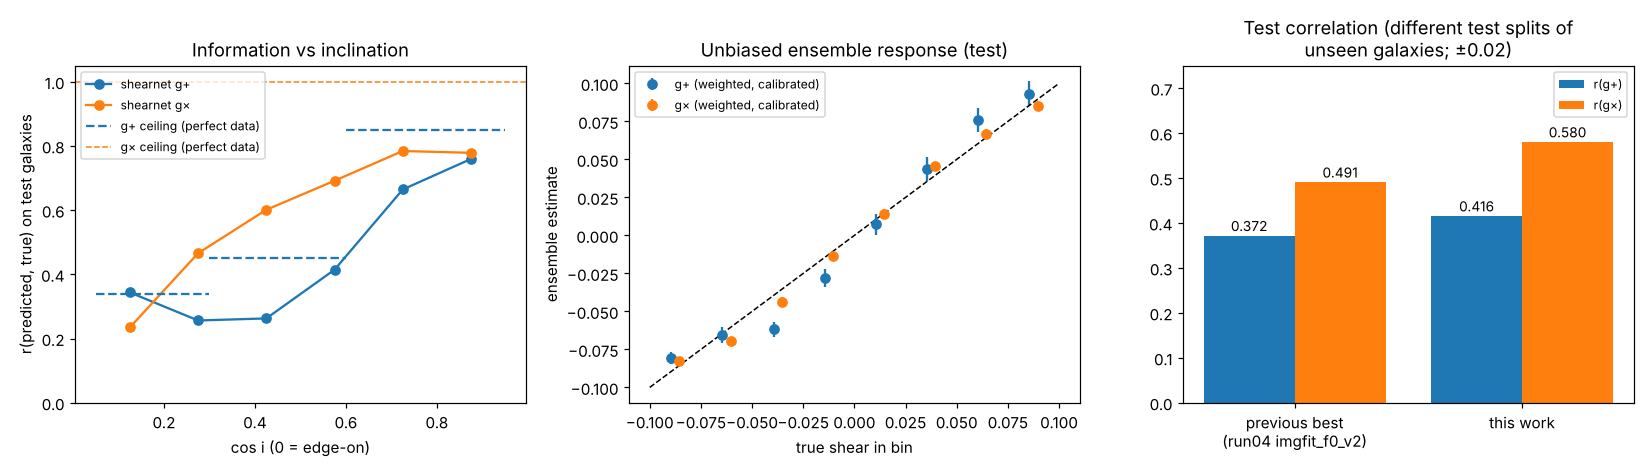
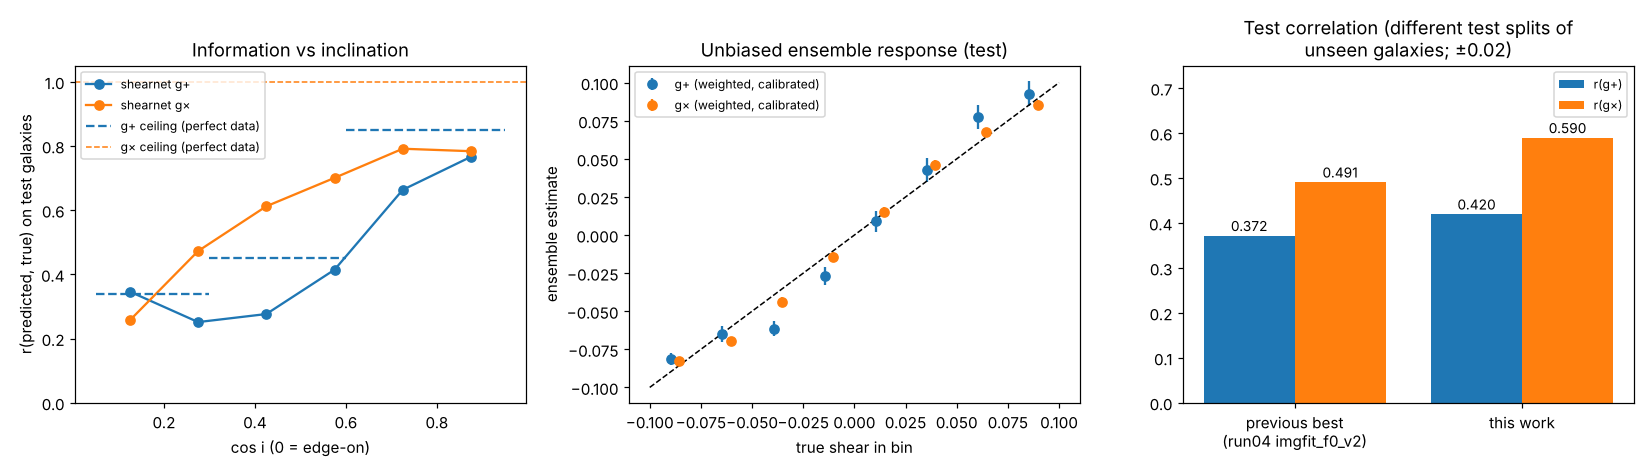
shearnet: add E6 (240k sims) and release the E5+E6 ensemble
Claude-Session: https://claude.ai/code/session_01T1Wh3stoXminmBgRFaqmyM

diff --git a/shearnet/README.md b/shearnet/README.md
@@ -18,7 +18,8 @@ stamps). The real training rows are mixed in at 15-20% of each batch.
 | previous best, `run04/imgfit_f0_v2` (its own 1,320-row test split) | 0.372 | 0.491 | ~0.145 | ~0.10 |
 | shearnet, real data only (E1) | 0.19 | ~0 | | |
 | shearnet, 60k sims from an imperfect forward model (E3) | 0.385 | 0.510 | 0.116 | 0.060 |
-| **shearnet, 120k sims from the validated forward model (E5, `models/shearnet_E5.pt`)** | **0.416** | **0.580** | **0.098** | **0.046** |
+| shearnet, 120k sims from the validated forward model (E5) | 0.416 | 0.580 | 0.098 | 0.046 |
+| **shearnet ensemble E5 + E6 (E6: 240k sims), released** | **0.420** | **0.590** | **0.097** | **0.044** |
 
 `sigma_eff` is the effective per-galaxy shear noise of the de-shrunk,
 inverse-variance-weighted, validation-calibrated estimator, computed from the
@@ -26,25 +27,26 @@ actual test residuals: N galaxies measure the mean shear to
 `sigma_eff / sqrt(N)`. For comparison, conventional shape-noise weak lensing has
 about 0.26 per component. The earlier models' values are estimated from their r
 (no per-galaxy uncertainty was available). For a fixed shear S/N, this model
-needs about 2.2x (g+) and 4.7x (g×) fewer galaxies than the previous best.
+needs about 2.2x (g+) and 5.2x (g×) fewer galaxies than the previous best.
 
 After calibration on the validation galaxies, the test biases are consistent with zero:
-m(g+) = +0.009 ± 0.037, m(g×) = +0.022 ± 0.016, and |c| < 0.003. The
-predicted per-galaxy sigma is calibrated (pull standard deviation 0.93-1.04).
+m(g+) = +0.014 ± 0.036, m(g×) = +0.025 ± 0.016, and |c| < 0.002 (released
+ensemble). The predicted per-galaxy sigma is calibrated (pull standard deviation 0.91-1.04).
 
 By inclination (test, r):
 
 | cos i | g+ | g× | oracle g+ ceiling |
 |---|---|---|---|
-| 0.05-0.3 (edge-on) | 0.33 | 0.29 | 0.34 |
-| 0.3-0.6 | 0.29 | 0.62 | 0.45 |
-| 0.6-0.95 (face-on) | 0.66 | 0.78 | 0.85 |
+| 0.05-0.3 (edge-on) | 0.33 | 0.31 | 0.34 |
+| 0.3-0.6 | 0.29 | 0.63 | 0.45 |
+| 0.6-0.95 (face-on) | 0.66 | 0.79 | 0.85 |
 
 **What to expect.** g+ is close to its physical limit for edge-on disks. Overall
 it reaches about 75% of the perfect-data ceiling (0.42 vs 0.56). The headroom
 left is mostly in g× for inclined disks and in g+ for face-on disks. Further
-gains are most likely from more simulations (still increasing at 120k) and longer
-training on a GPU. Per-galaxy R^2 cannot approach 1 for g+ on this data set.
+gains from more simulations are flattening: going from 120k to 240k sims improved
+validation MSE by only 0.4%. A larger network trained on a GPU, or a likelihood
+fit with `forward.py` as a benchmark, are the remaining options. Per-galaxy R^2 cannot approach 1 for g+ on this data set.
 Judge the model by sigma_eff and the calibration (m, c), not by R^2.
 
 Experiment log (all evaluated on the same validation/test galaxies):
@@ -59,7 +61,10 @@ Experiment log (all evaluated on the same validation/test galaxies):
   0.373/0.522 and real 0.373/0.544.
 * E4 (60k corrected sims) gives test 0.405 / 0.556. E5 (120k corrected sims, 20% real)
   gives test 0.416 / 0.580. An E4+E5 ensemble is equal on test (0.418 / 0.578) but
-  inherits a small g+ additive bias from E4, so E5 alone is the released model.
+  inherits a small g+ additive bias from E4, so it was not used.
+* E6: E5 fine-tuned on 240k corrected sims (A+B+C+D), validation MSE 0.777 vs 0.780.
+  The E5 + E6 ensemble was best on validation (r 0.381 / 0.564) and is the released
+  model: test 0.420 / 0.590, sigma_eff 0.097 / 0.044.
 
 
 ## Why the earlier models stalled (diagnosis)
@@ -162,13 +167,15 @@ information comes from galaxies with cos i > 0.6, so weighting matters.
 
 ## Released model
 
-`models/shearnet_E5.pt` is a self-contained checkpoint (weights, input
-normalisation, roll angles, noise levels). `models/shearnet_E5_calibration.json`
-holds the validation calibration, and `models/psf_os5.npz` holds the precomputed
+The released model is the ensemble of `models/shearnet_E5.pt` and
+`models/shearnet_E6.pt` (self-contained checkpoints: weights, input
+normalisation, roll angles, noise levels). `models/shearnet_ensemble_calibration.json`
+holds its validation calibration (`shearnet_E5_calibration.json` is for E5 alone), and `models/psf_os5.npz` holds the precomputed
 Roman PSF kernels used by the simulator.
 
 ```bash
-python predict.py --ckpt models/shearnet_E5.pt --calib models/shearnet_E5_calibration.json \
+python predict.py --ckpt models/shearnet_E5.pt models/shearnet_E6.pt \
+    --calib models/shearnet_ensemble_calibration.json \
     --parquet new_galaxies.parquet --out shear_pred.csv
 ```
 
